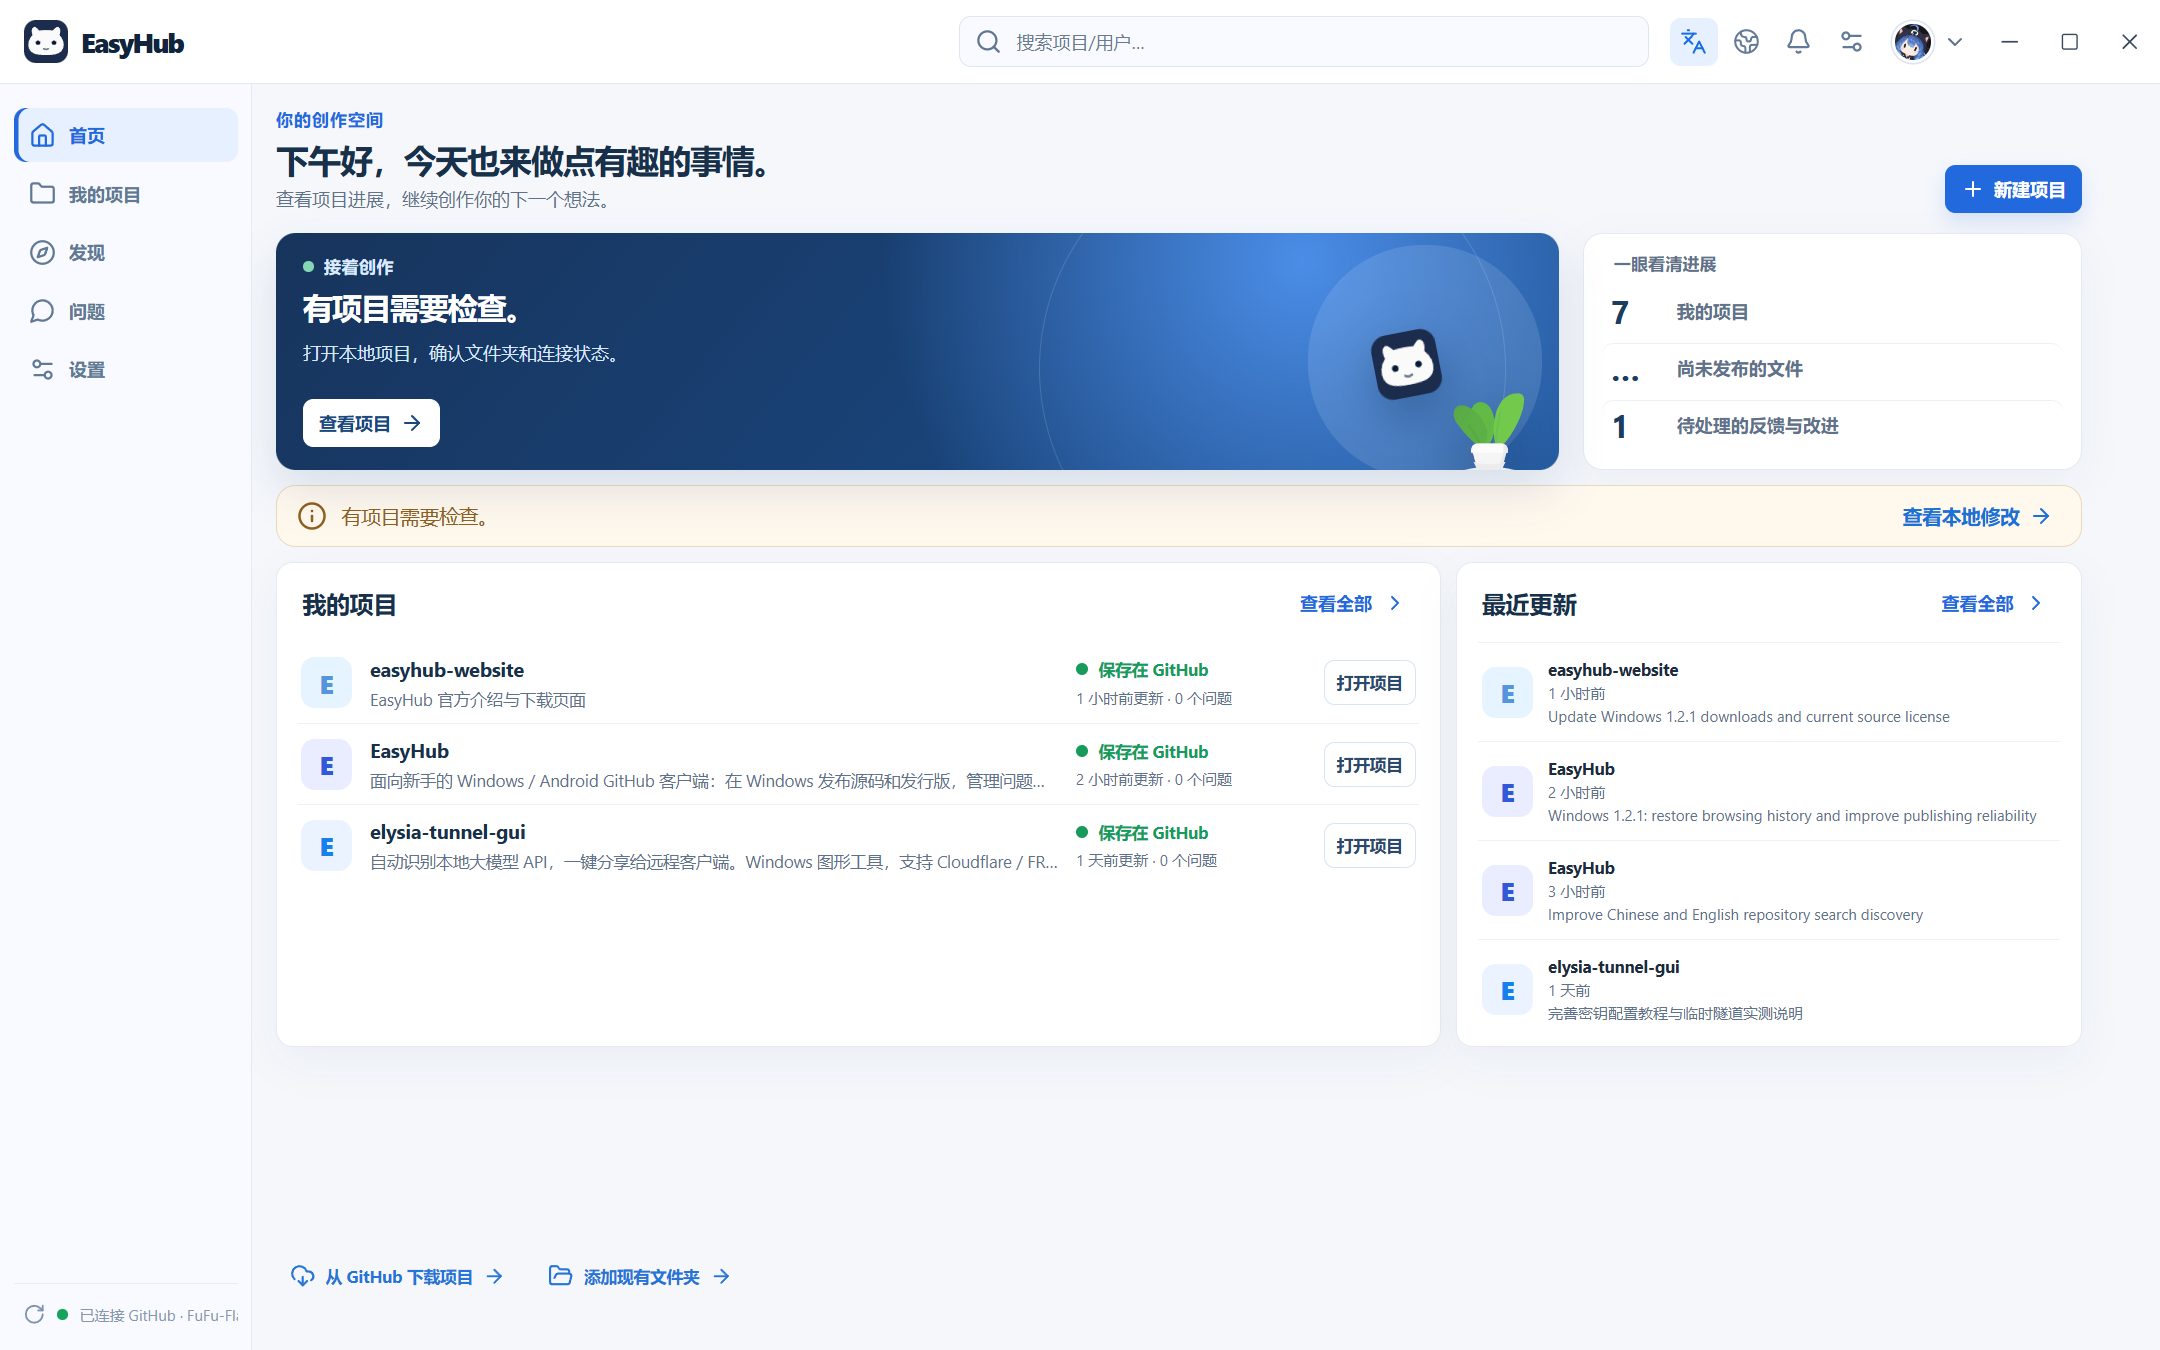
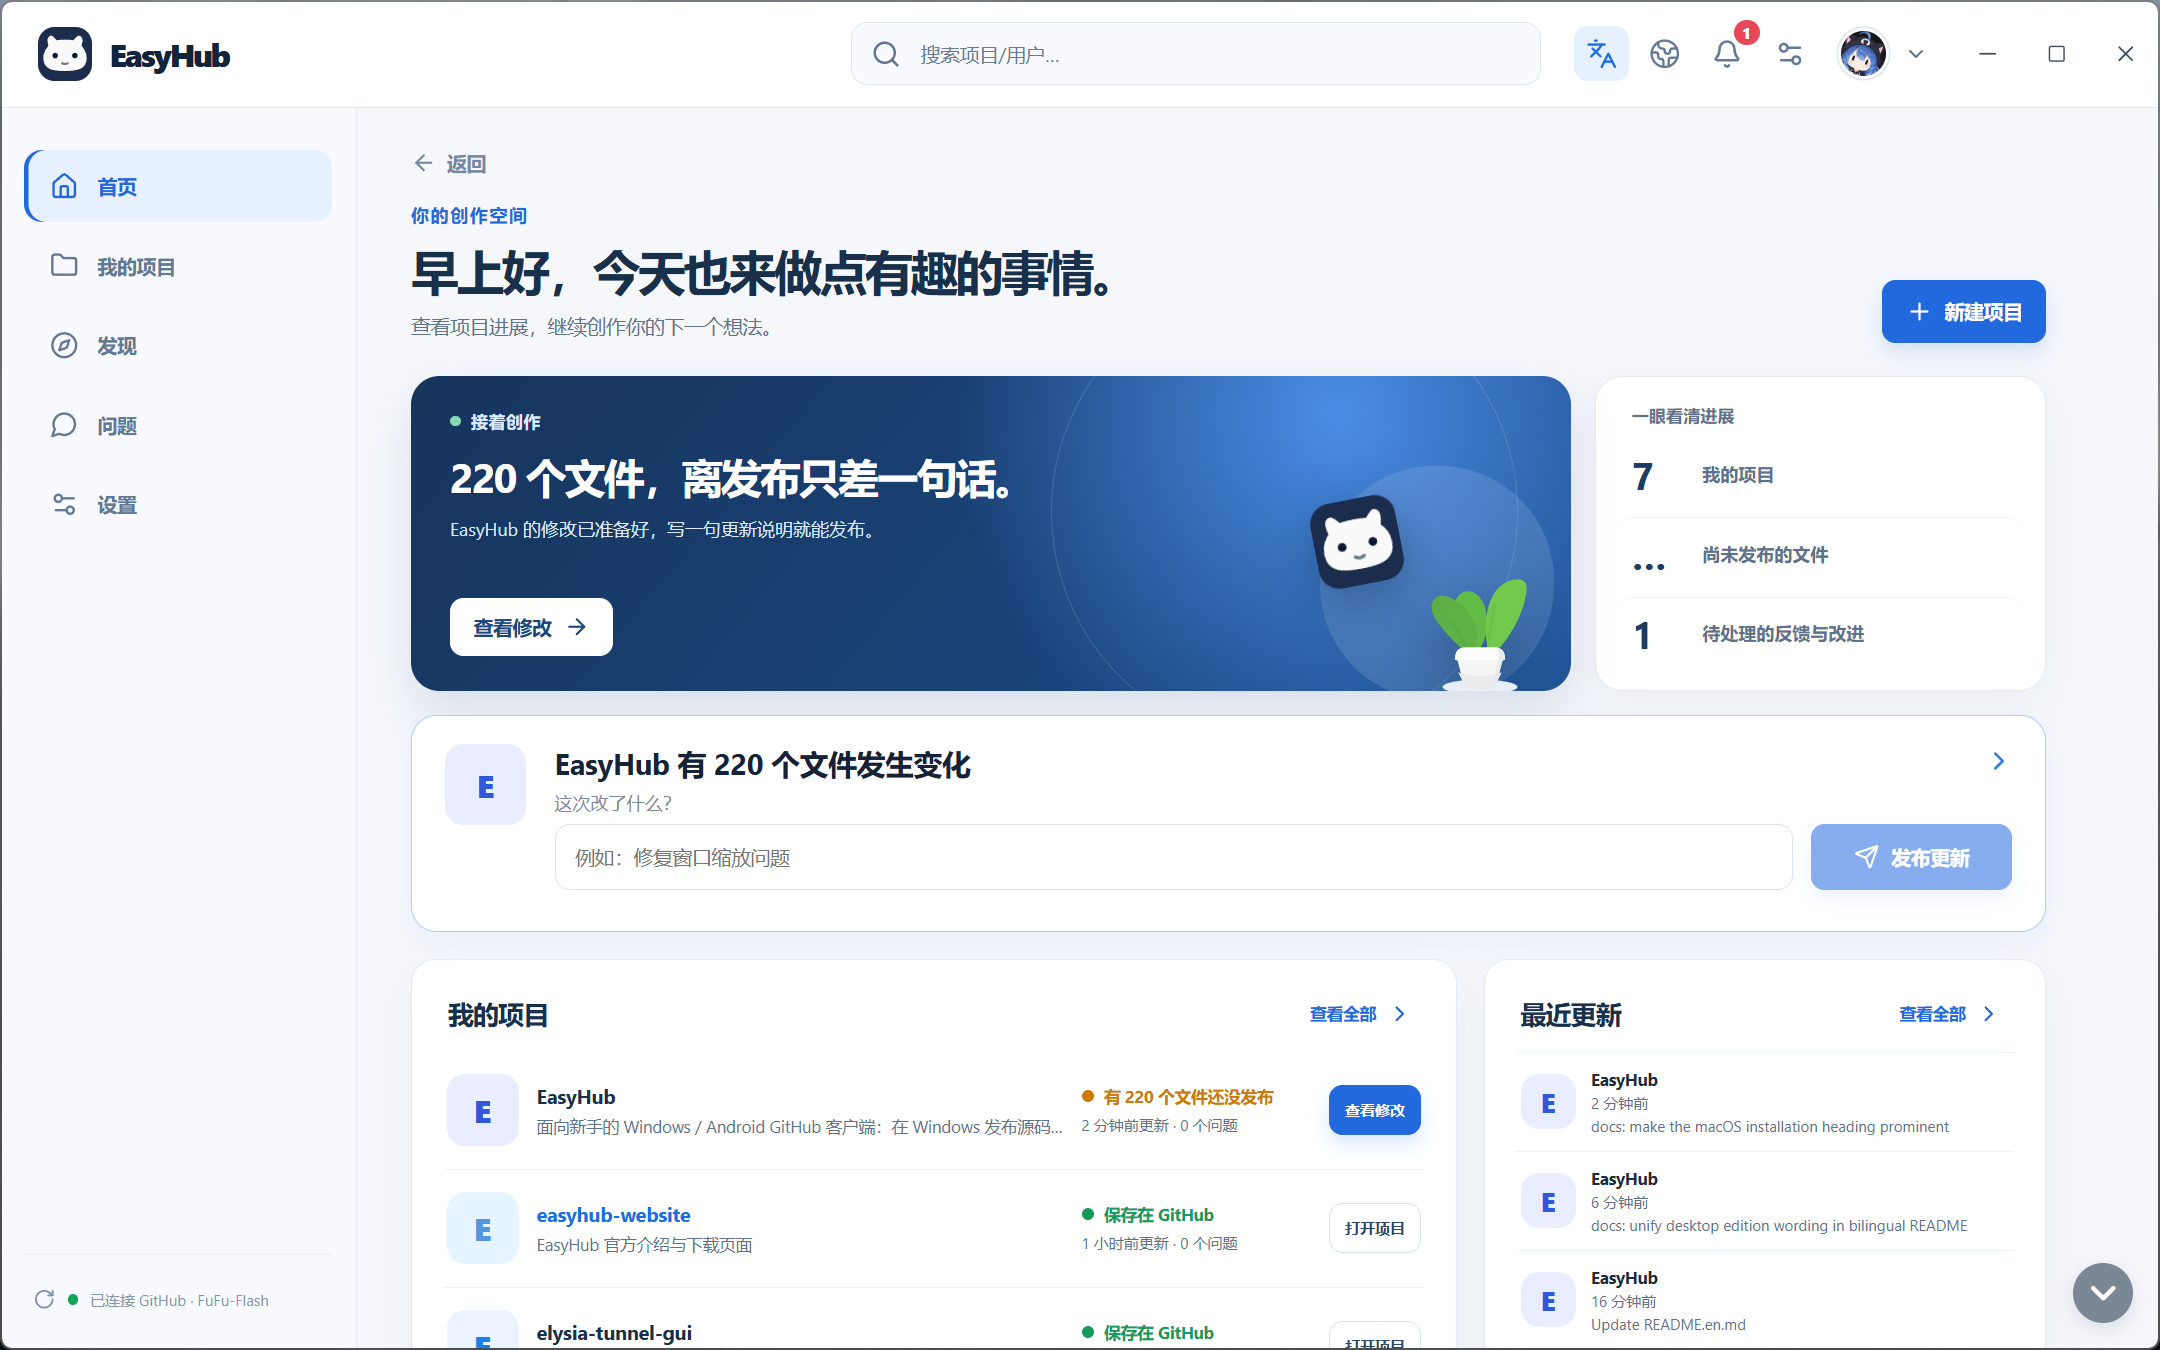
docs: update Chinese and English desktop screenshots

diff --git a/README.en.md b/README.en.md
@@ -5,7 +5,7 @@
   </tr>
   <tr>
     <td><a href="docs/images/terminal-errors.png"><img src="docs/images/terminal-errors.png" alt="Illustrative Git commands and errors in a dark terminal" width="640"></a></td>
-    <td><a href="docs/images/easyhub-client.png"><img src="docs/images/easyhub-client.png" alt="EasyHub home screen with project overview, my projects and recent updates" width="640"></a></td>
+    <td><a href="docs/images/easyhub-client-en.png"><img src="docs/images/easyhub-client-en.png" alt="EasyHub home screen with project overview, my projects and recent updates" width="640"></a></td>
   </tr>
   <tr>
     <td align="center">Illustrative terminal errors</td>
